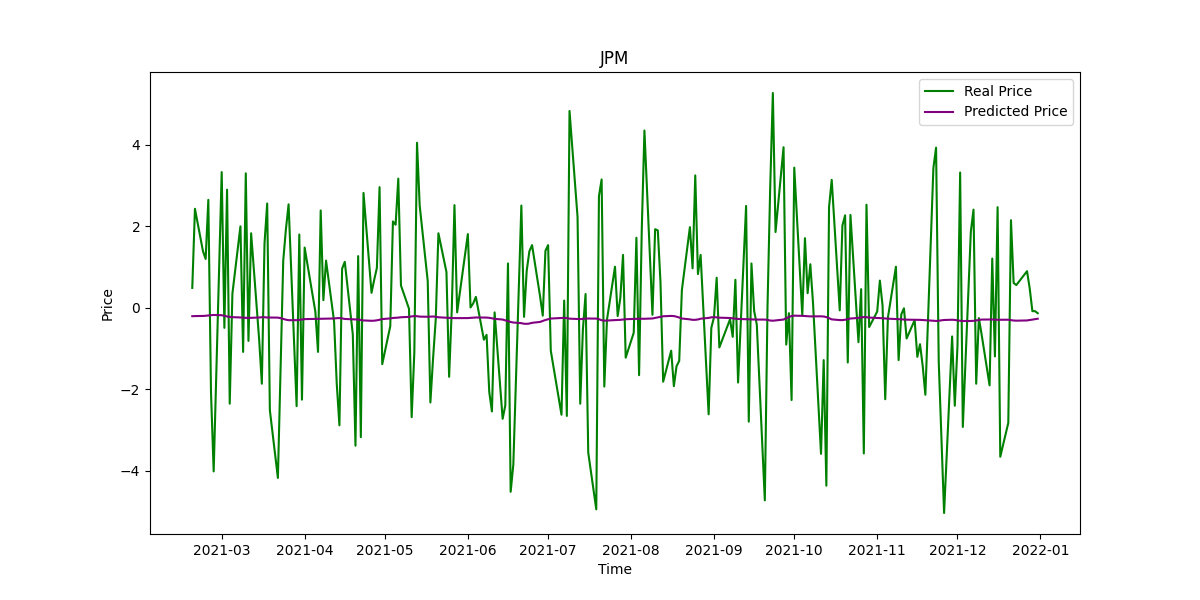
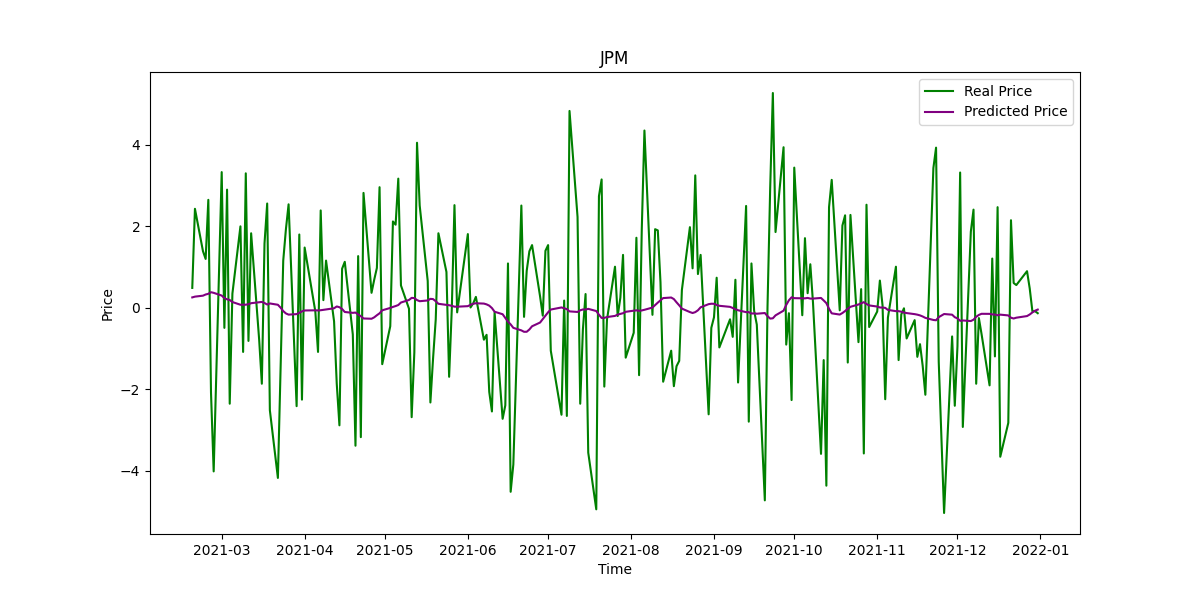
function for saving models was modified

Changed region(s): [[0.1542, 0.48, 0.8633, 0.57]]

diff --git a/main.py b/main.py
@@ -5,6 +5,8 @@ from prediction import *
 from visualisation import *
 from helper_functions import *
 import os
+from csv import DictWriter
+
 import joblib
 
 def final_pred(ticker, change='absolute'):
@@ -52,8 +54,9 @@ def final_pred(ticker, change='absolute'):
     plot_results(ticker, df_preds_abs, change=change)
     plot_loss(my_model, ticker)
     best_score = grid_result.best_score_
+    best_params = grid_result.best_params_
 
-    return df_preds, df_preds_abs, classification_accuracy, best_score, mse_train, mse_test
+    return df_preds, df_preds_abs, classification_accuracy, best_score, best_params, mse_train, mse_test
 
 # data = download_data('NFLX', '2018-01-01', '2022-01-01', '1d')
 # data_tr = data_transform(data, 'absolute')
@@ -78,36 +81,64 @@ def final_pred(ticker, change='absolute'):
 # # plot_results('NFLX', df, data, data_tr, prediction, change = 'absolute')
 
 
-def makemydir(df, stock, folder_name ):
+def makemydir(df, stock, folder_name):
     dir = os.path.join("C:/Users/AI_BootCamp_06/Desktop/LSTMM/", folder_name)
     if not os.path.exists(dir):
         os.makedirs(dir)
-    os.chdir(dir)
-    df.to_csv(f'df_{stock}_change.csv')
+    # os.chdir(dir)
+    df.to_csv(dir + f'\\df_{stock}_change.csv')
 
 acc_list = []
 scores = []
+best_params_ = []
 mse_train_ = []
 mse_test_ = []
+dict_acc = {'Stock': [], 'Accuracy': [], 'Score': [], 'MSE train': [], 'MSE test': [], 'Best Parameters': []}
+df_acc = pd.DataFrame(dict_acc)
+df_acc.to_csv('dict_15.07.csv', index = False)
 
 # stocks = ['NFLX', 'MSFT', 'V', 'AMZN', 'TWTR', 'AAPL', 'GOOG', 'TSLA', 'FB', 'NVDA', 'JNJ', 'UNH', 'XOM', 'JPM', 'CVX', 'MA', 'WMT', 'HD', 'PFE', 'BAC', 'LLY', 'KO', 'ABBV']
-stocks = ['JNJ', 'UNH', 'XOM', 'JPM', 'CVX', 'MA', 'WMT', 'HD', 'PFE', 'BAC', 'LLY', 'KO']
+# stocks = ['JNJ', 'XOM', 'JPM', 'CVX', 'MA', 'WMT', 'HD', 'PFE', 'BAC', 'LLY', 'KO']
 # stocks = ['CVX', 'MA', 'WMT', 'HD']
-# stocks = ['XOM', 'JPM'] # no PG
+stocks = ['XOM', 'JPM'] # no PG
 
 for stock in stocks:
-    df_preds, df_preds_abs, clf_acc, score, mse_train, mse_test = final_pred(stock, change='absolute')
+    df_preds, df_preds_abs, clf_acc, score, best_params, mse_train, mse_test = final_pred(stock, change='absolute')
     makemydir(df_preds, stock, "Stock Price Prediction (absolute change) 15.07")
     makemydir(df_preds_abs, stock, "Stock Price Prediction(with added changes) (absolute change) 15.07")
-    acc_list.append(clf_acc)
-    scores.append(score)
-    mse_train_.append(mse_train)
-    mse_test_.append(mse_test)
+    dict_append = {'Stock': stock, 'Accuracy':clf_acc, 'Score': score, 'MSE train': mse_train, 'MSE test':mse_test, 'Best Parameters':best_params}
+    # Open your CSV file in append mode
+    # Create a file object for this file
+    with open('dict_15.07.csv', 'a') as f_object:
+        # Pass the file object and a list
+        # of column names to DictWriter()
+        # You will get a object of DictWriter
+        fieldnames = ['Stock', 'Accuracy', 'Score', 'MSE train', 'MSE test', 'Best Parameters']
+        dictwriter_object = DictWriter(f_object, fieldnames=dict_append)
+
+        # Pass the dictionary as an argument to the Writerow()
+        dictwriter_object.writerow(dict_append)
+
+        # Close the file object
+        f_object.close()
+    # acc_list.append(clf_acc)
+    # scores.append(score)
+    # mse_train_.append(mse_train)
+    # mse_test_.append(mse_test)
+    # best_params_.append(best_params)
+    # dict_acc['Stock'].append(stock)
+    # dict_acc['Accuracy'].append(clf_acc)
+    # dict_acc['Score'].append(score)
+    # dict_acc['Best Parameters'].append(best_params)
+    # dict_acc['MSE train'].append(mse_train)
+    # dict_acc['MSE test'].append(mse_test)
+
+
     # plt.close()
-    print(f'{stock} done')
-
-dict_acc = {'Stock': stocks, 'Accuracy':acc_list, 'Score': scores, 'MSE train': mse_train_, 'MSE test':mse_test_}
-df_acc = pd.DataFrame(dict_acc)
-
-print(df_acc)
-df_acc.to_csv('accuracy_15.07.csv')
+    # print(f'{stock} done')
+#
+# dict_acc = {'Stock': stocks, 'Accuracy':acc_list, 'Score': scores, 'MSE train': mse_train_, 'MSE test':mse_test_, 'Best Parameters':best_params_}
+# df_acc = pd.DataFrame(dict_acc)
+#
+# print(df_acc)
+# df_acc.to_csv('accuracy_15.07.csv')

diff --git a/visualisation.py b/visualisation.py
@@ -1,5 +1,6 @@
 import pandas as pd
 import matplotlib.pyplot as plt
+import os
 
 def upd_df(df):
     #df = pd.read_csv(f'C:\Stock Price Prediction\df_{ticker}.csv')
@@ -19,7 +20,8 @@ def plot_results(ticker, df, change):
     plt.xlabel('Time')
     plt.ylabel('Price')
     plt.legend()
-    plt.savefig(f'C:/Users/AI_BootCamp_06/Desktop/LSTMM/plot_{ticker}_daily.png')
+    cwd = os.getcwd()
+    plt.savefig(cwd + f'\\plots\\plot_{ticker}_daily.png')
 
     # plt.show()
 
@@ -27,7 +29,7 @@ def plot_results(ticker, df, change):
         plt.figure(figsize=(12, 6))
         plt.plot(pd.concat([df['Close_actual'], df['Added_changes']], axis=1))
         plt.title('Close Absolute Change Prediction (only adding changes)')
-        plt.savefig(f'C:/Users/AI_BootCamp_06/Desktop/LSTMM/absolute_change_{ticker}.png')
+        plt.savefig(cwd + f'\\plots\\absolute_change_{ticker}.png')
         plt.close()
 
     else:
@@ -36,7 +38,8 @@ def plot_results(ticker, df, change):
 def plot_loss(my_model, ticker):
     plt.figure(figsize=(10, 6))
     plt.plot(my_model.history_['loss'])
-    plt.savefig(f'C:/Users/AI_BootCamp_06/Desktop/LSTMM/loss_plot/plot_loss_{ticker}.png')
+    cwd = os.getcwd()
+    plt.savefig(cwd + f'\\loss_plot\\plot_loss_{ticker}.png')
 
 
 # for stock in ['NFLX', 'MSFT', 'V', 'AMZN', 'TWTR', 'AAPL', 'GOOG', 'TSLA', 'FB', 'NVDA', 'JNJ', 'UNH', 'XOM', 'JPM', 'PG', 'CVX', 'MA', 'WMT', 'HD', 'PFE', 'BAC', 'LLY', 'KO', 'ABBV']:

diff --git a/modeling.py b/modeling.py
@@ -40,8 +40,8 @@ def build_model(X_train, loss = 'mse', optimizer = 'adam'):
     grid_model.add(LSTM(100, return_sequences=True, input_shape=(X_train.shape[1], X_train.shape[2]))) # (30,4)
     grid_model.add(Dropout(0.2)) # 20% of the units will be dropped
     # 2nd LSTM layer
-    grid_model.add(LSTM(50, return_sequences=True))
-    grid_model.add(Dropout(0.2))
+    # grid_model.add(LSTM(50, return_sequences=True))
+    # grid_model.add(Dropout(0.2))
     # 3rd LSTM layer
     # grid_model.add(LSTM(units=50, return_sequences=True))
     # grid_model.add(Dropout(0.5))
@@ -53,7 +53,6 @@ def build_model(X_train, loss = 'mse', optimizer = 'adam'):
     defined_metrics = [tf.keras.metrics.MeanSquaredError(name='MSE')]
     grid_model.compile(loss = loss, optimizer= optimizer, metrics=defined_metrics)
     grid_model_reg = KerasRegressor(build_fn=grid_model, verbose=1)
-
 
     return grid_model, grid_model_reg
 
@@ -67,7 +66,8 @@ def best_model(X_train, y_train, grid_model_reg, ticker, cv = 3):
   my_model = grid_result.best_estimator_
 
   # saving the model
-  joblib.dump(my_model, f'saved_models/model_{ticker}.pkl')
+  cwd = os.getcwd()
+  joblib.dump(my_model, cwd + f'\\saved_models\\model_{ticker}.pkl')
 
   print('Keys: ', my_model.history_.keys())
 
